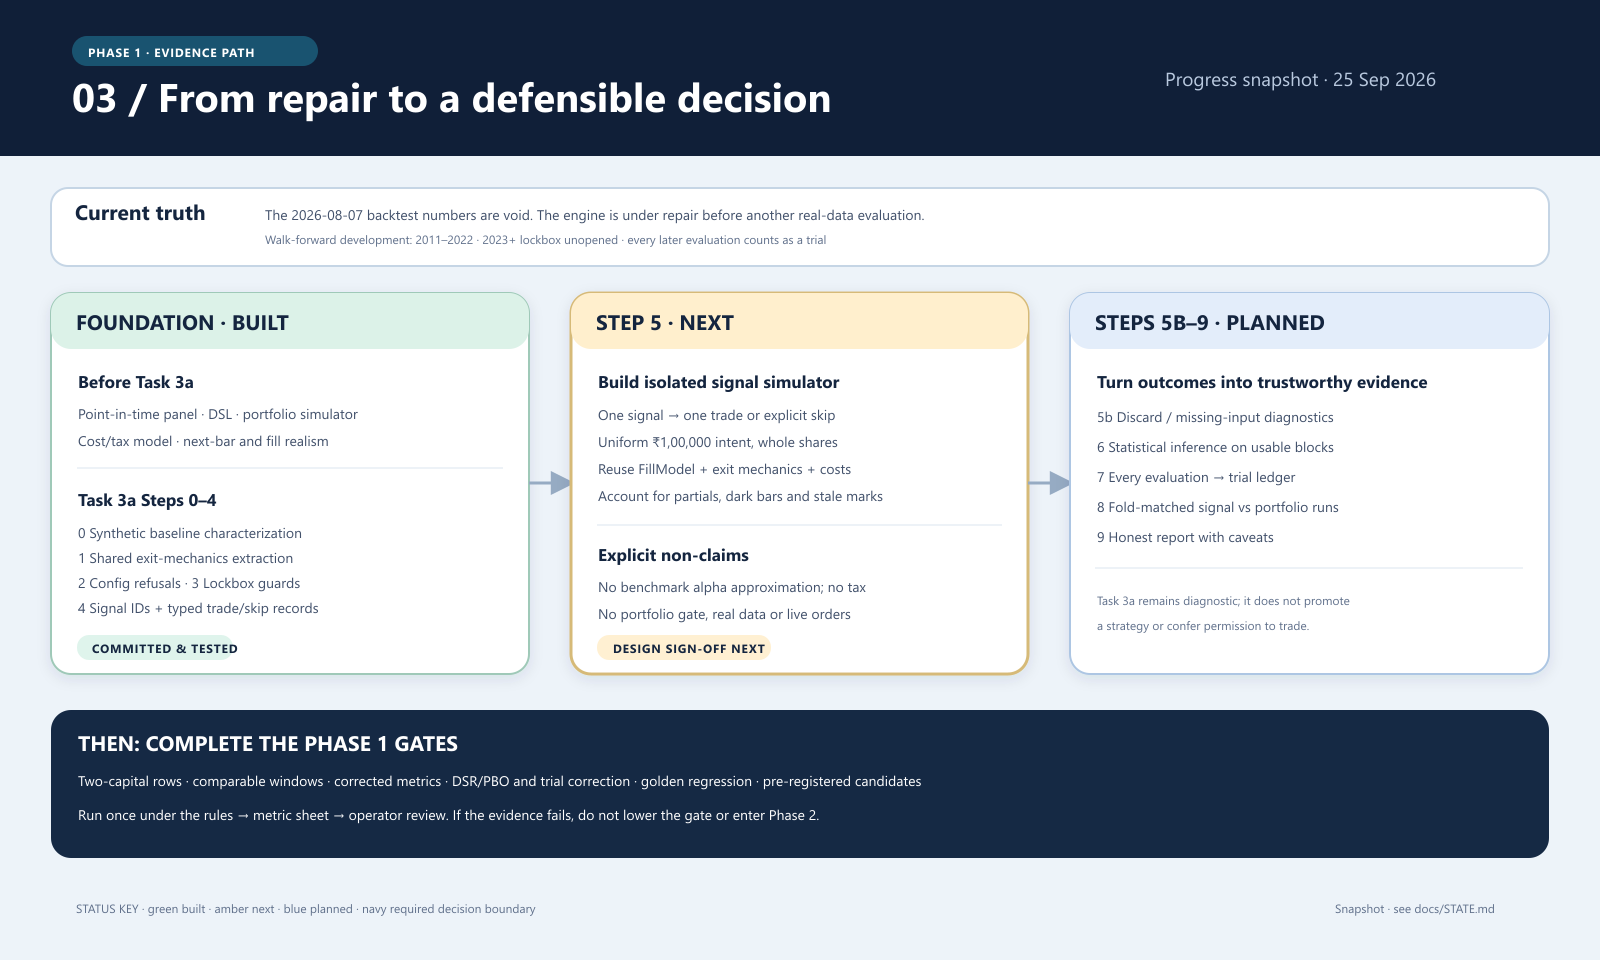
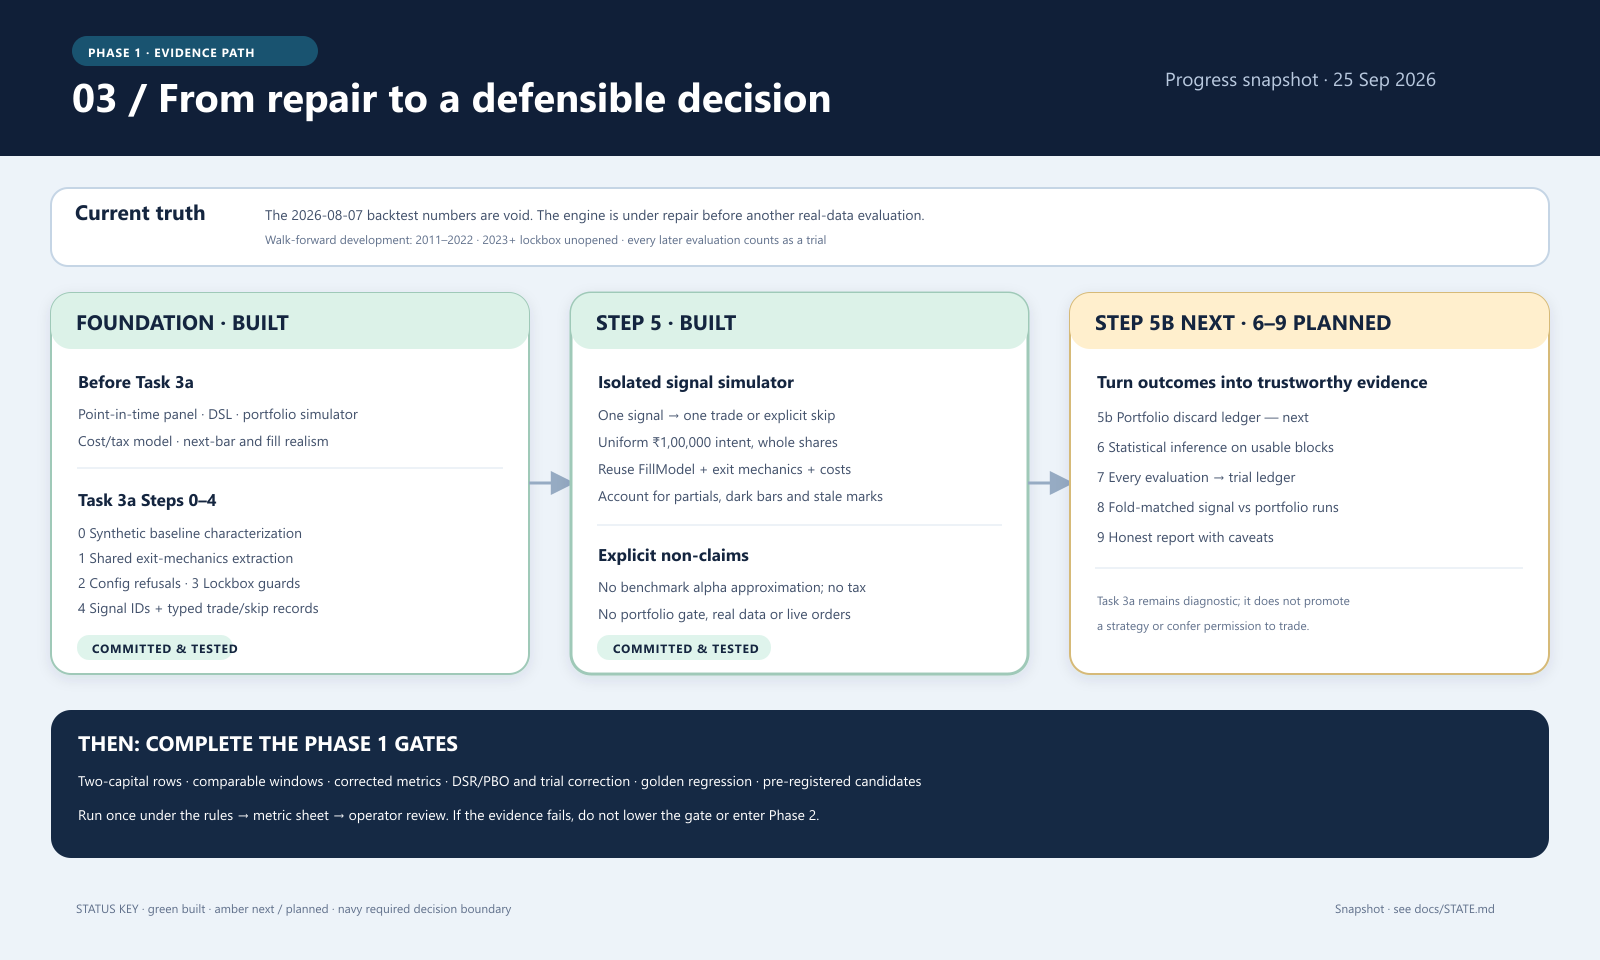
Record Step 5 completion and refresh Icarus maps

diff --git a/docs/STATE.md b/docs/STATE.md
@@ -23,7 +23,7 @@ Then an audit of that run found the engine had been measuring something other th
 that were written down. **Every number from that run is void.** We are part-way through the repair
 plan that has to finish before the next backtest is worth running.
 
-**Current position: Step 2g is complete; Task 3a is in progress.** Its plan was corrected on 2026-09-24 with operator approval (D16). Step 0, the synthetic pre-extraction characterization, is complete at `b54f3cb`; Step 1, the behavior-preserving shared exit extraction, is complete at `83ff601`. Step 2 (`signal_test` config and loader refusals) is complete at `61191d6`; Step 3 (lockbox span guards) is implemented, independently reviewed and committed at `3cf0bf3`; Step 4 (typed signal trade/skip records) is complete at `e5d9fee` after independent architecture, standards, and spec reviews; Step 5 (the signal-only simulator and remaining pure helper extraction) is next. The signal-only simulator is not built. Its bounded design was approved by the operator and written into `docs/plans/2026-09-25-signal-simulator.md`; the file-by-file implementation plan is awaiting operator review. The operator chose explicit caller-supplied missingness reasons (unlabelled NaNs rejected) and no daily-bar benchmark approximation for intraday exits (D20). No Step-5 code or real-data evaluation has run. Any real-data rerun still counts as a trial. The redesigned three-board visual map is linked from `docs/README.md`; the older diagrams remain dated history. See `docs/plans/2026-08-22-signal-test.md`. 2g-4 was closed as not-a-defect.
+**Current position: Step 2g is complete; Task 3a is in progress.** Its plan was corrected on 2026-09-24 with operator approval (D16). Step 0, the synthetic pre-extraction characterization, is complete at `b54f3cb`; Step 1, the behavior-preserving shared exit extraction, is complete at `83ff601`. Step 2 (`signal_test` config and loader refusals) is complete at `61191d6`; Step 3 (lockbox span guards) is committed at `3cf0bf3`; Step 4 (typed signal trade/skip records) is committed at `e5d9fee`; Step 5 (the synthetic-only signal simulator and remaining pure helper extraction) is complete at `997bbd2` after independent safety and standards review. The 2026-09-25 verification passed 1,172 unit tests, Ruff format/check, and mypy. Step 5b (observational portfolio discard ledger) is next and not built. The operator chose explicit caller-supplied missingness reasons (unlabelled NaNs rejected) and no daily-bar benchmark approximation for intraday exits (D20); both boundaries remain. No Task-3a real-data evaluation or lockbox run has occurred. Any real-data rerun still counts as a trial. The redesigned three-board visual map is linked from `docs/README.md`; the older diagrams remain dated history. See `docs/plans/2026-08-22-signal-test.md`. 2g-4 was closed as not-a-defect.
 
 **The operator clarified on 2026-09-24 that learning must examine both strategy entry/exit timing and order-execution timing (D17).** The proposed phased lineage contract is `docs/plans/2026-09-24-trade-lineage-learning.md`; it does not enable future-phase behavior now.
 
@@ -122,7 +122,7 @@ Full detail in the audit's §6c. Status as of 2026-08-21:
 | **2g-2** | Unverified `scale_free` flags (F27) + the concentration cap (F34, D11) | ✅ 2026-08-17 |
 | **2g-3** | `rank_by` and the `xs_` words accept a market-wide value (F25) | ✅ 2026-08-20 |
 | **2g-4** | ~~Annulled flash-crash prints are still in the panel (F23)~~ | ❌ closed 2026-08-21 — **not a defect**, premise false (D14) |
-| **3a** | Signal-test mode — every signal accounted for, uniform notional, no book (F2, D1); diagnostic only | 🔨 Steps 0–4 committed; Step 5 signal simulator next; signal mode not built |
+| **3a** | Signal-test mode — every signal accounted for, uniform notional, no book (F2, D1); diagnostic only | 🔨 Steps 0–5 committed; Step 5b discard ledger next; diagnostic runner and real-data evaluation not built |
 | **3b** | Two capital rows: ₹10,00,000 edge run and ₹1,00,000 seed run (F15, D8, D9) | todo |
 | **3c** | Common-window comparison (F16) | now the **default** after F40, not a later correction |
 | **4a–4d** | Gross · costs · tax · net columns; per-trade CSV; alpha/beta/R²; withdraw the bad Nifty line | todo |

diff --git a/docs/plans/2026-08-22-signal-test.md b/docs/plans/2026-08-22-signal-test.md
@@ -1,6 +1,6 @@
 # Task 3a — the signal test: plan
 
-**Written 2026-08-22, before any code; corrected 2026-09-24 after independent Astra review and operator approval.** Decisions in `OPERATOR.md` §7b D15. The corrections below supersede the original Step-0 trial exemption, transfer-coefficient claim, and overstrong placebo/uncertainty claims. No real-data run has occurred in Task 3a. Steps 0–2 were subsequently implemented on 2026-09-24; the signal-only mode remains unbuilt. Findings below come
+**Written 2026-08-22, before any code; corrected 2026-09-24 after independent Astra review and operator approval.** Decisions in `OPERATOR.md` §7b D15. The corrections below supersede the original Step-0 trial exemption, transfer-coefficient claim, and overstrong placebo/uncertainty claims. No real-data run has occurred in Task 3a. Steps 0–5 have since been implemented on synthetic fixtures; the full diagnostic runner, trial-ledger path and real-data evaluation remain unbuilt. Findings below come
 from six agents run in parallel — an integration researcher, a statistician, a prior-art
 researcher, a test designer, an architect, and a strategist. Where two of them reached the same
 conclusion by different routes, that is noted, because independent convergence is the strongest
@@ -279,7 +279,7 @@ Test-first throughout: write the acceptance test, watch it fail, implement, watc
 | **2** | ✅ **DONE 2026-09-24, `61191d6`.** Required `signal_test:` config, D15 and provisional-statistic loader refusals, separate dated provenance, inference pinned off until Step 6 calibration. 1,028 unit tests pass. No real-data run. | — |
 | **3** | ✅ **DONE 2026-09-25, `3cf0bf3`.** Whole-source lockbox refusal, fixed 2023 boundary, aligned/valid daily axes and inclusive development span; 1,046 unit tests, Ruff, mypy, independent review. No real-data run. | — |
 | **4** | ✅ **DONE 2026-09-25, `e5d9fee`.** Stable `SignalId`, typed trade/skip records and fragments; independent architecture, standards and spec reviews; 1,106 unit tests, synthetic characterization, Ruff and mypy pass. Pre-tax alpha is explicitly named; no simulator, real panel, lockbox, trial write or live path. | 1 |
-| **5** | `SignalSimulator.run()` plus remaining pure helper extraction | 1, 4 |
+| **5** | ✅ **DONE 2026-09-25, `997bbd2`.** Synthetic-only `SignalSimulator.run()`, remaining pure helper extraction, explicit missingness and skips, actual partial exits and marked residuals. Independent safety/standards review; 1,172 unit tests, Ruff and mypy pass. No real-data, lockbox, trial ledger or broker path. | 1, 4 |
 | **5b** | Observational portfolio discard ledger; exact count reconciliation and unchanged trade/equity/cost trace | 5 |
 | **6a** | `signalmetrics.py` estimators and synthetic calibration; inference remains disabled | 4 |
 | **6b** | Date and pin the calibrated minimum-block rule in `common/config.py` and `goal.yaml`; only then may inference be enabled | 6a |

diff --git a/docs/README.md b/docs/README.md
@@ -6,7 +6,7 @@ Start with [STATE.md](STATE.md): it is the current build position and the source
 
 - [Task 3a plan](plans/2026-08-22-signal-test.md): ordered signal-test work and scope boundaries.
 - [Step 4 record contract](plans/2026-09-25-signal-records.md): the implemented stable signal identity and outcome records.
-- [Step 5 simulator contract](plans/2026-09-25-signal-simulator.md) and [implementation plan](plans/2026-09-25-signal-simulator-implementation.md): approved design and file-by-file plan awaiting operator review; no simulator code yet.
+- [Step 5 simulator contract](plans/2026-09-25-signal-simulator.md) and [implementation plan](plans/2026-09-25-signal-simulator-implementation.md): implemented synthetic-only simulator, committed at `997bbd2`; Step 5b discard accounting is next.
 - [Trade-lineage and learning proposal](plans/2026-09-24-trade-lineage-learning.md): later work, not current implementation or promotion authority.
 - [Newest ranked audit](reviews/2026-08-09-post-backtest-audit.md): known findings, including items not yet scheduled in TASKS.
 
@@ -15,7 +15,7 @@ Start with [STATE.md](STATE.md): it is the current build position and the source
 The current visual orientation is three titled, layered boards. Each has an editable SVG source and a rendered PNG in `diagrams/`:
 
 1. [System map: Phase 1 research boundary](../diagrams/icarus-system-map-2026-09-25.svg) — what is built, what is next, and how future learning/live execution stay separate.
-2. [Task 3a: one signal, one outcome](../diagrams/icarus-signal-outcomes-2026-09-25.svg) — the Step 4 record contract and proposed Step 5 simulator path.
+2. [Task 3a: one signal, one outcome](../diagrams/icarus-signal-outcomes-2026-09-25.svg) — the Step 4 record contract and implemented Step 5 synthetic simulator path.
 3. [Evidence roadmap](../diagrams/icarus-evidence-roadmap-2026-09-25.svg) — completed repair, the next implementation slice, later diagnostics, and the operator gate.
 
 The older `icarus-status-*`, `icarus-task3a-*`, and `icarus-safe-loop-*` diagrams remain as dated history, not the current map. Status words inside the new boards are authoritative; colors are secondary. These snapshots are not acceptance evidence. A *built* research component is not deployed, and there is no live order path in Phase 1. Check [STATE.md](STATE.md) for the latest build position.
